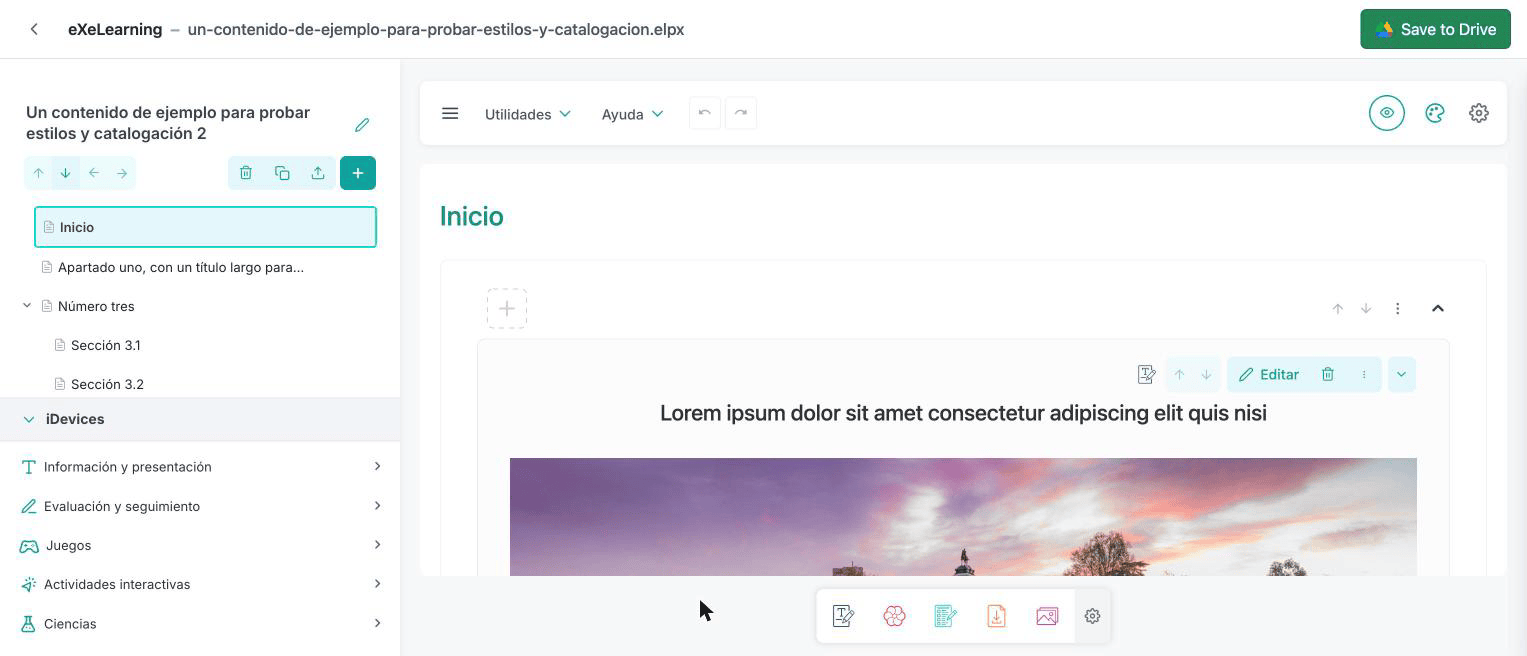
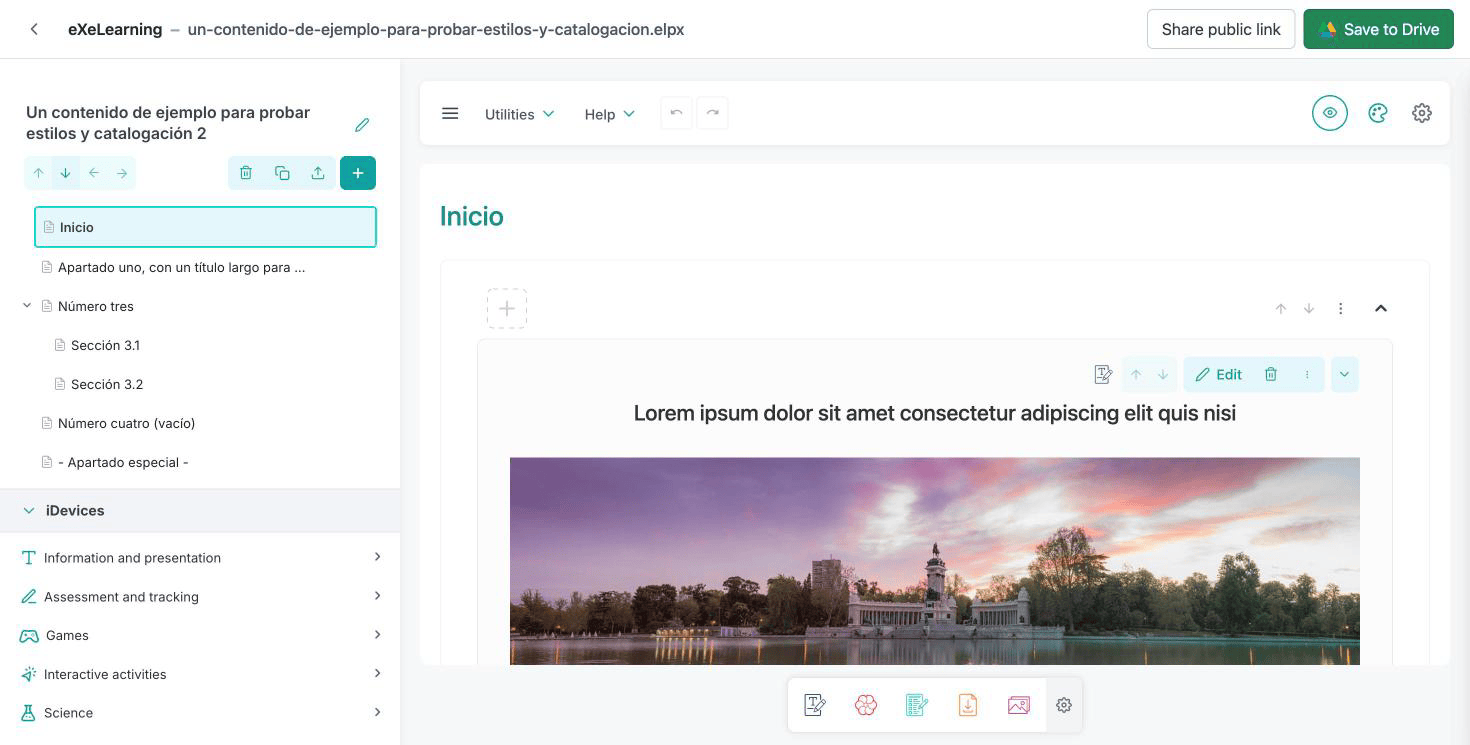
docs(plugins): Google Drive public links and translated interface
The Google Drive app now speaks the twelve eXeLearning languages and can
share a resource with students through a public, no-login view. The guide
gains a Language section, a Share with students section (confirm dialog,
link dialog, public view, how to stop sharing, Workspace domains that forbid
public links) and, for administrators, the API key a self-hosted copy needs
for public links. Button names follow the translated interface in each
language.

Screenshots of the app's own screens are retaken from the live deploy in
English (*.png) and Spanish (*.es.png); Drive's own menus and the public
view are shared by both guides.

The Language section says the editor keeps the language of its own
preferences: the static editor ignores the documented embedding `locale`
until #2542 ships. Once a release with #2542 reaches the Drive app, the
editor follows the app's language and that sentence should be updated.

Refs #2519, #2542

diff --git a/doc/plugins/google-drive.es.md b/doc/plugins/google-drive.es.md
@@ -5,8 +5,8 @@
 <!-- --8<-- [start:intro] -->
 
 **eXeLearning para Google Drive** permite **abrir, editar y crear** recursos de eXeLearning
-(`.elpx`) guardados en tu Drive. No hay que instalar nada: funciona en el navegador y los archivos
-nunca salen de Drive.
+(`.elpx`) guardados en tu Drive, y **compartirlos con el alumnado** mediante un enlace público. No hay
+que instalar nada: funciona en el navegador y los archivos nunca salen de Drive.
 
 <!-- --8<-- [end:intro] -->
 
@@ -26,6 +26,10 @@ Workspace debe permitir **eXeLearning** en la **Consola de administración de Go
 Control de acceso y de datos → Controles de API → Gestionar el acceso de aplicaciones de terceros**).
 Si no, el profesorado verá un error al autorizarla.
 
+Los enlaces públicos para el alumnado necesitan que el archivo se comparta como **Cualquier persona
+con el enlace**. Si tu dominio no permite compartir fuera de la organización, el profesorado verá un
+error al crearlos; aun así podrá compartir archivos con personas del dominio desde Google Drive.
+
 ### Alojar una copia propia (opcional)
 
 Una administración puede publicar su propia copia en lugar de usar la pública, por ejemplo para que
@@ -37,6 +41,8 @@ una web estática, así que sirve cualquier servidor web. Necesitas:
    **ID de cliente OAuth** para la dirección de tu web.
 3. La **integración con la interfaz de Drive** apuntando a tu copia, para que eXeLearning aparezca en
    los menús **Abrir con** y **Nuevo** de Drive.
+4. Una **clave de API** restringida a la API de Google Drive y a tu web, que usa la vista pública.
+   Sin ella, el botón **Compartir enlace público** aparece desactivado.
 
 Todos los pasos están en la
 [guía de autoalojamiento](https://github.com/exelearning/gdrive-exelearning/blob/main/SELF-HOSTING.md)
@@ -56,33 +62,41 @@ Todos los pasos están en la
 ### Primeros pasos
 
 1. Entra en <https://exelearning.github.io/gdrive-exelearning/>.
-2. Pulsa **Authorize Google** y acepta los permisos. Así eXeLearning aparece en los menús **Abrir con**
-   y **Nuevo** de Drive.
+2. Pulsa **Conectar Google Drive** y acepta los permisos. Así eXeLearning aparece en los menús
+   **Abrir con** y **Nuevo** de Drive.
 
-![Página de inicio de eXeLearning para Google Drive](img/google-drive/landing.png)
+![Página de inicio de eXeLearning para Google Drive](img/google-drive/landing.es.png)
 
 !!! info "Permisos que pide"
     Solo accede a los archivos que abras o crees con eXeLearning (permiso `drive.file`), no a todo tu
     Drive.
 
+### Idioma
+
+La aplicación está disponible en los mismos idiomas que eXeLearning. Usa el idioma de tu navegador;
+para cambiarlo, elige otro en **Idioma**, al pie de la página de inicio. Los menús de Drive siguen el
+idioma de tu cuenta de Google, y el editor mantiene el idioma que tenga configurado en sus
+preferencias.
+
 ### Abrir un recurso
 
 En Google Drive, haz clic derecho sobre un `.elpx` y elige **Abrir con → eXeLearning**. La primera
-vez, pulsa **Authorize and open**.
+vez, pulsa **Autorizar y abrir**.
 
 ![Abrir con → eXeLearning en Google Drive](img/google-drive/open-with.png)
 
-Se muestra una vista previa del recurso, lista para navegar. Pulsa **Edit in eXeLearning** para
-editarlo.
+Se muestra una vista previa del recurso, lista para navegar. Pulsa **Editar en eXeLearning** para
+editarlo, o **Compartir enlace público** para
+[compartirlo con tu alumnado](#compartir-con-el-alumnado).
 
-![Vista previa del recurso con el botón Edit in eXeLearning](img/google-drive/preview.png)
+![Vista previa del recurso con los botones Compartir enlace público y Editar en eXeLearning](img/google-drive/preview.es.png)
 
 ### Editar y guardar
 
-El editor se abre en la misma pestaña. Cuando termines, pulsa **Save to Drive** (o Ctrl/Cmd + S). El
-archivo se actualiza en Drive, con su miniatura.
+El editor se abre en la misma pestaña. Cuando termines, pulsa **Guardar en Drive** (o Ctrl/Cmd + S).
+El archivo se actualiza en Drive, con su miniatura.
 
-![El editor de eXeLearning con el botón Save to Drive](img/google-drive/editor.png)
+![El editor de eXeLearning con el botón Guardar en Drive](img/google-drive/editor.es.png)
 
 - Si alguien cambió el archivo mientras lo editabas, podrás elegir entre sobrescribirlo, guardar una
   copia o cancelar.
@@ -91,17 +105,40 @@ archivo se actualiza en Drive, con su miniatura.
 
 ### Crear un recurso nuevo
 
-En Drive, pulsa **Nuevo → Más → eXeLearning**. La primera vez, pulsa **Authorize and create**. El
+En Drive, pulsa **Nuevo → Más → eXeLearning**. La primera vez, pulsa **Autorizar y crear**. El
 archivo nuevo se crea en la carpeta en la que estás y se abre en el editor.
 
 ![Nuevo → Más → eXeLearning en Google Drive](img/google-drive/new-menu.png)
 
-### Compartir
+### Compartir con el alumnado { #compartir-con-el-alumnado }
 
-Usa el botón **Compartir** de Google Drive, como con cualquier otro archivo.
+Un enlace público permite al alumnado abrir el recurso en su navegador **sin cuenta de Google**.
 
-!!! note "Idioma"
-    Por ahora las pantallas propias de esta aplicación están solo en inglés. Los menús de Drive y el
-    editor se muestran en tu idioma.
+1. Pulsa **Compartir enlace público**, en la vista previa o en el editor.
+2. El diálogo avisa de que el archivo pasará a **Cualquier persona con el enlace** como **Lector** en
+   Google Drive. Pulsa **Crear enlace público**.
+
+    ![Diálogo de compartir antes de crear el enlace público](img/google-drive/share-confirm.es.png)
+
+3. Pulsa **Copiar enlace** y envía el enlace a tu alumnado: en tu curso, por correo o donde sueles
+   compartir los materiales.
+
+    ![Diálogo de compartir con el enlace público para el alumnado](img/google-drive/share-link.es.png)
+
+El alumnado ve el recurso como una web, con su menú, sin instalar nada ni iniciar sesión.
+
+![Vista pública del recurso, abierta sin iniciar sesión](img/google-drive/public-view.png)
+
+!!! warning "Cualquiera con el enlace puede verlo y descargarlo"
+    Quien tenga el enlace puede ver el recurso y descargar su archivo `.elpx`. Para dejar de
+    compartirlo, pulsa **Gestionar en Google Drive** (o usa el botón **Compartir** de Drive) y vuelve
+    a poner el **Acceso general** en **Restringido**. A partir de ahí el enlace deja de funcionar.
+
+Si el Google Workspace de tu centro no permite compartir fuera de la organización, el diálogo muestra
+el error de Google. Aun así puedes compartir el archivo con docentes de tu dominio con el botón
+**Compartir** de Drive; lo abrirán con **Abrir con → eXeLearning**.
+
+Para que otros docentes puedan editar el archivo, usa el botón **Compartir** de Google Drive, como
+con cualquier otro archivo.
 
 <!-- --8<-- [end:teacher] -->

diff --git a/doc/plugins/google-drive.md b/doc/plugins/google-drive.md
@@ -5,7 +5,8 @@
 <!-- --8<-- [start:intro] -->
 
 **eXeLearning for Google Drive** lets you **open, edit and create** eXeLearning resources (`.elpx`)
-stored in your Drive. There is nothing to install: it runs in the browser and files never leave Drive.
+stored in your Drive, and **share them with students** through a public link. There is nothing to
+install: it runs in the browser and files never leave Drive.
 
 <!-- --8<-- [end:intro] -->
 
@@ -24,6 +25,10 @@ If your domain restricts third-party apps, a Workspace administrator must allow 
 the **Google Admin console** (**Security → Access and data control → API controls → Manage
 third-party app access**). Otherwise teachers see an error when they authorize it.
 
+Public links for students need files to be shared as **Anyone with the link**. If your domain does
+not allow sharing outside the organization, teachers get an error when they create one; they can
+still share files with people in the domain from Google Drive.
+
 ### Host your own copy (optional)
 
 An administration can run its own copy instead of the public one, for example to show its own name
@@ -35,6 +40,8 @@ server works. You need:
    **OAuth client ID** for your website's address.
 3. The **Drive UI integration** pointing to your copy, so that eXeLearning appears in Drive's **Open
    with** and **New** menus.
+4. An **API key** restricted to the Google Drive API and to your website, used by the public view.
+   Without it, the **Share public link** button stays disabled.
 
 The [self-hosting guide](https://github.com/exelearning/gdrive-exelearning/blob/main/SELF-HOSTING.md)
 has every step.
@@ -53,14 +60,20 @@ has every step.
 ### Getting started
 
 1. Go to <https://exelearning.github.io/gdrive-exelearning/>.
-2. Click **Authorize Google** and accept the permissions. This adds eXeLearning to Drive's **Open
-   with** and **New** menus.
+2. Click **Connect Google Drive** and accept the permissions. This adds eXeLearning to Drive's
+   **Open with** and **New** menus.
 
 ![eXeLearning for Google Drive home page](img/google-drive/landing.png)
 
 !!! info "Permissions it asks for"
     It only accesses the files you open or create with eXeLearning (`drive.file` permission), not your
     whole Drive.
+
+### Language
+
+The app is available in the same languages as eXeLearning. It uses your browser's language; to
+change it, pick another one in **Language** at the bottom of the home page. Drive's menus follow
+your Google account's language, and the editor keeps the language set in its own preferences.
 
 ### Open a resource
 
@@ -69,9 +82,10 @@ click **Authorize and open**.
 
 ![Open with → eXeLearning in Google Drive](img/google-drive/open-with.png)
 
-A preview of the resource appears, ready to browse. Click **Edit in eXeLearning** to edit it.
+A preview of the resource appears, ready to browse. Click **Edit in eXeLearning** to edit it, or
+**Share public link** to [share it with your students](#share-with-students).
 
-![Preview of the resource with the Edit in eXeLearning button](img/google-drive/preview.png)
+![Preview of the resource with the Share public link and Edit in eXeLearning buttons](img/google-drive/preview.png)
 
 ### Edit and save
 
@@ -91,12 +105,34 @@ new file is created in the folder you are in and opens in the editor.
 
 ![New → More → eXeLearning in Google Drive](img/google-drive/new-menu.png)
 
-### Share
+### Share with students { #share-with-students }
 
-Use Google Drive's **Share** button, as with any other file.
+A public link lets students open the resource in their browser **without a Google account**.
 
-!!! note "Language"
-    For now this app's own screens are in English only. Drive's menus and the editor use your
-    language.
+1. Click **Share public link**, in the preview or in the editor.
+2. The dialog warns that the file will change to **Anyone with the link** as **Viewer** in Google
+   Drive. Click **Create public link**.
+
+    ![Share dialog before creating the public link](img/google-drive/share-confirm.png)
+
+3. Click **Copy link** and send the link to your students: in your course, by email or wherever you
+   usually share materials.
+
+    ![Share dialog with the public link for students](img/google-drive/share-link.png)
+
+Students see the resource as a website, with its menu, and nothing else to install or sign in to.
+
+![Public view of the resource, opened without signing in](img/google-drive/public-view.png)
+
+!!! warning "Anyone with the link can see and download it"
+    Whoever has the link can view the resource and download its `.elpx` file. To stop sharing, click
+    **Manage in Google Drive** (or use Drive's **Share** button) and set **General access** back to
+    **Restricted**. The link then stops working.
+
+If your school's Google Workspace does not allow sharing outside the organization, the dialog shows
+Google's error. You can still share the file with colleagues in your domain using Drive's **Share**
+button; they open it with **Open with → eXeLearning**.
+
+To let other teachers edit the file, use Drive's **Share** button as with any other file.
 
 <!-- --8<-- [end:teacher] -->

diff --git a/doc/plugins/index.es.md b/doc/plugins/index.es.md
@@ -21,7 +21,7 @@ de eXeLearning**: basta con instalar el plugin para empezar a editar.
 | Nextcloud | [eXeLearning para Nextcloud](nextcloud.es.md) | Ver, editar y crear recursos en Archivos | — |
 | WordPress | [eXeLearning para WordPress](wordpress.es.md) | Publicar recursos en entradas y páginas | — |
 | Omeka S | [eXeLearning para Omeka S](omeka-s.es.md) | Catalogar y mostrar recursos en colecciones | — |
-| Google Drive | [eXeLearning para Google Drive](google-drive.es.md) | Abrir y editar recursos guardados en Drive | — |
+| Google Drive | [eXeLearning para Google Drive](google-drive.es.md) | Abrir, editar y compartir recursos guardados en Drive | — |
 | OneDrive | [eXeLearning para OneDrive](onedrive.es.md) | Abrir y editar recursos guardados en OneDrive | — |
 
 !!! tip "¿Moodle? Empieza por `mod_exelearning`"

diff --git a/doc/plugins/index.md b/doc/plugins/index.md
@@ -21,7 +21,7 @@ editor**: install the plugin and you can start editing.
 | Nextcloud | [eXeLearning for Nextcloud](nextcloud.md) | View, edit and create resources in Files | — |
 | WordPress | [eXeLearning for WordPress](wordpress.md) | Publish resources in posts and pages | — |
 | Omeka S | [eXeLearning for Omeka S](omeka-s.md) | Catalogue and show resources in collections | — |
-| Google Drive | [eXeLearning for Google Drive](google-drive.md) | Open and edit resources stored in Drive | — |
+| Google Drive | [eXeLearning for Google Drive](google-drive.md) | Open, edit and share resources stored in Drive | — |
 | OneDrive | [eXeLearning for OneDrive](onedrive.md) | Open and edit resources stored in OneDrive | — |
 
 !!! tip "Moodle? Start with `mod_exelearning`"
